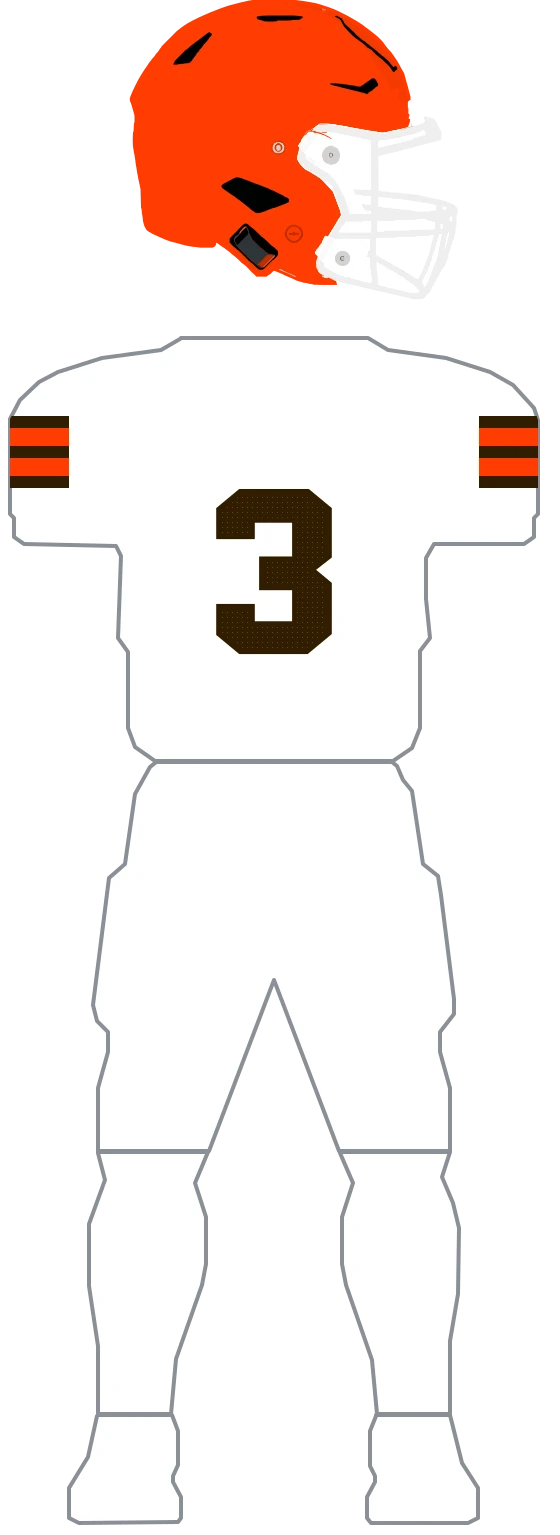
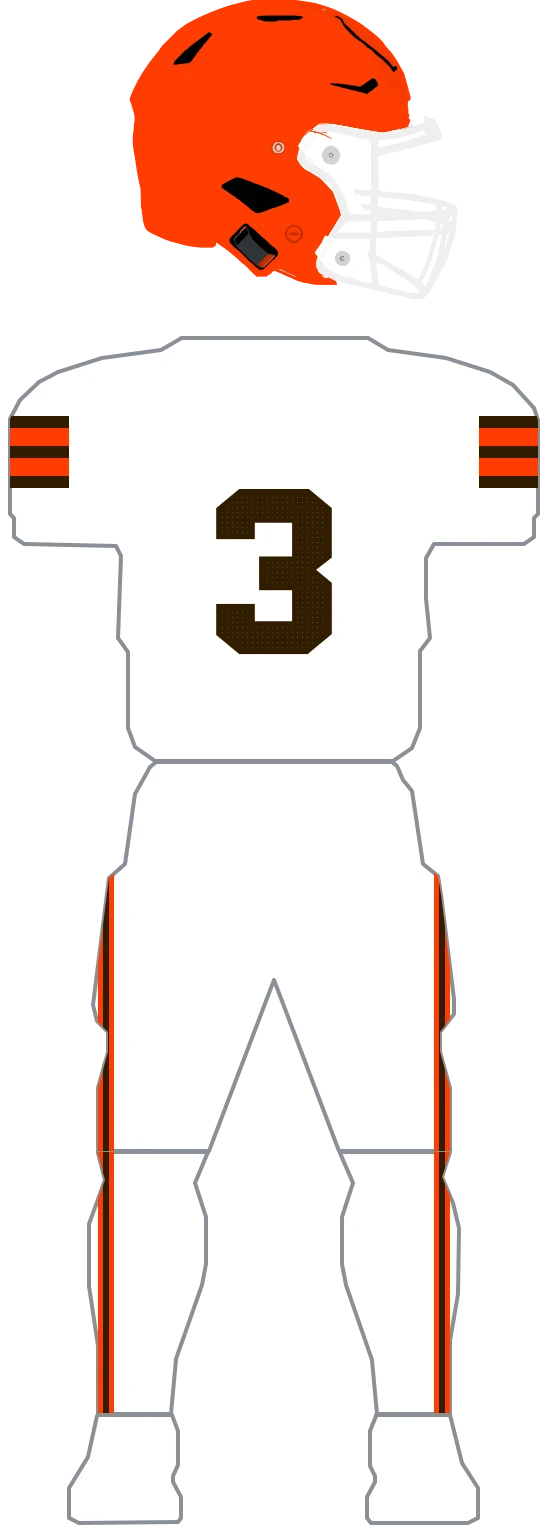
fix(uniforms): model Browns pants options (#759)

Changed region(s): [[0.7589, 0.5511, 0.8196, 0.9186], [0.1518, 0.5511, 0.2125, 0.9186]]

diff --git a/lib/uniforms/teams/browns.parts.ts b/lib/uniforms/teams/browns.parts.ts
@@ -3,11 +3,10 @@
 // instead of the kit row's shifting primary/secondary/accent.
 //
 // Cleveland's construction is defined by what it does NOT have: the shell carries no logo and no
-// center stripe, the white pants carry no stripe, the V-collar carries no trim, and the numerals
-// carry no keyline. Everything the uniform says, it says with one five-band stripe stack at the
-// end of each sleeve. The three kits combine two helmets (the bare orange shell home/away, and
-// the 1946 throwback's brown shell) and one shared white jersey — away and the 1946 both wear a
-// white body with the stack banded brown-over-orange — plus one pair of white pants for all three.
+// center stripe, the V-collar carries no trim, and the numerals carry no keyline. Everything the
+// uniform says, it says with one five-band stripe stack at the end of each sleeve and a three-band
+// pant stripe. The current composite's brown, orange and white pants are independently selectable;
+// the 1946 throwback keeps its existing white pants outside that current-uniform option set.
 
 import { BROWNS_SLEEVE_X_LEFT, BROWNS_SLEEVE_X_RIGHT, BROWNS_STRIPE_BOUNDS } from './browns';
 import { compileParts, type PartLayer, type TeamPartsDefinition, type UniformPart } from './parts';
@@ -37,6 +36,46 @@ function sleeveStripes(band: string, gap: string): PartLayer[] {
     }
   }
   return out;
+}
+
+// The 2025 GUD composite's white and orange pants both carry the same orange-brown-orange stripe.
+// The shared mannequin band supplies the 16-unit orange outer field; a six-unit brown centre leaves
+// equal orange rails on each side. These are full front-leg bands, unlike side-seam-only details.
+function pantsStripes(): PartLayer[] {
+  return [
+    {
+      id: 'generic-pants-stripe-left',
+      surface: 'leg-left',
+      d: 'M118,807 H134 V1462 H118 Z',
+      clip: true,
+      kind: 'fill',
+      fill: 'orange',
+    },
+    {
+      id: 'generic-pants-stripe-right',
+      surface: 'leg-right',
+      d: 'M454,807 H470 V1462 H454 Z',
+      clip: true,
+      kind: 'fill',
+      fill: 'orange',
+    },
+    {
+      id: 'browns-pants-stripe-center-left',
+      surface: 'leg-left',
+      d: 'M123,807 H129 V1462 H123 Z',
+      clip: true,
+      kind: 'fill',
+      fill: 'brown',
+    },
+    {
+      id: 'browns-pants-stripe-center-right',
+      surface: 'leg-right',
+      d: 'M459,807 H465 V1462 H459 Z',
+      clip: true,
+      kind: 'fill',
+      fill: 'brown',
+    },
+  ];
 }
 
 // The bare orange shell — the club is the only one in the league with a bare helmet — shared by
@@ -74,8 +113,17 @@ const JERSEY_WHITE: UniformPart = {
   number: { fill: 'brown', outline: 'brown', outlineWidth: 10 },
 };
 
-// Plain white pants — one pair shared by all three kits.
-const PANTS_WHITE: UniformPart = { base: 'white', layers: [] };
+// White (P1) and orange (P2) pants: the 2025 GUD composite gives both the same
+// orange-brown-orange full-leg band.
+const PANTS_WHITE: UniformPart = { base: 'white', layers: pantsStripes() };
+const PANTS_ORANGE: UniformPart = { base: 'orange', layers: pantsStripes() };
+
+// Brown pants (P3): the 2025 color-rush figure is unstriped.
+const PANTS_BROWN: UniformPart = { base: 'brown', layers: [] };
+
+// The 1946 throwback is not represented in the current GUD composite, so retain its existing
+// unstriped white pant construction rather than importing an option from a different uniform era.
+const PANTS_1946_WHITE: UniformPart = { base: 'white', layers: [] };
 
 export const BROWNS_PARTS: TeamPartsDefinition = {
   teamId: 'browns',
@@ -92,11 +140,16 @@ export const BROWNS_PARTS: TeamPartsDefinition = {
     brown: JERSEY_BROWN,
     white: JERSEY_WHITE,
   },
-  pants: { white: PANTS_WHITE },
+  pants: {
+    white: PANTS_WHITE,
+    orange: PANTS_ORANGE,
+    brown: PANTS_BROWN,
+    '1946-white': PANTS_1946_WHITE,
+  },
   kits: {
-    home: { helmet: 'orange', jersey: 'brown', pants: 'white' },
-    away: { helmet: 'orange', jersey: 'white', pants: 'white' },
-    '1946-throwback': { helmet: 'brown', jersey: 'white', pants: 'white' },
+    home: { helmet: 'orange', jersey: 'brown', pants: ['white', 'orange', 'brown'] },
+    away: { helmet: 'orange', jersey: 'white', pants: ['white', 'orange'] },
+    '1946-throwback': { helmet: 'brown', jersey: 'white', pants: '1946-white' },
   },
 };
 
